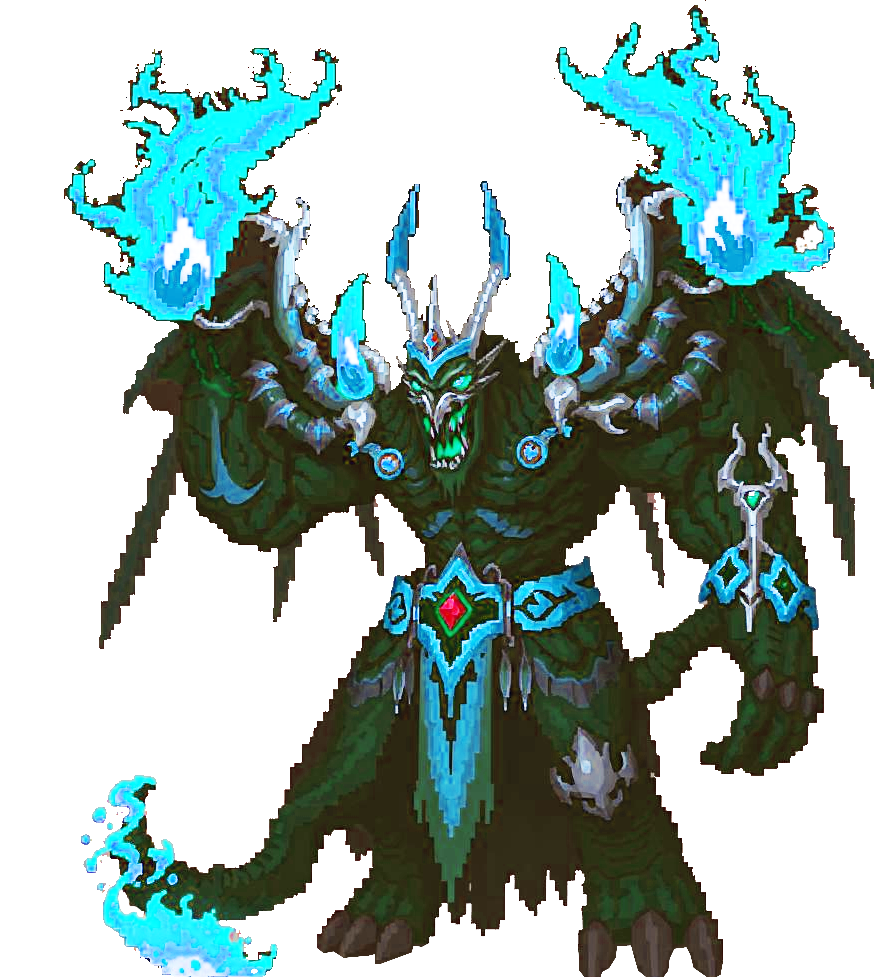
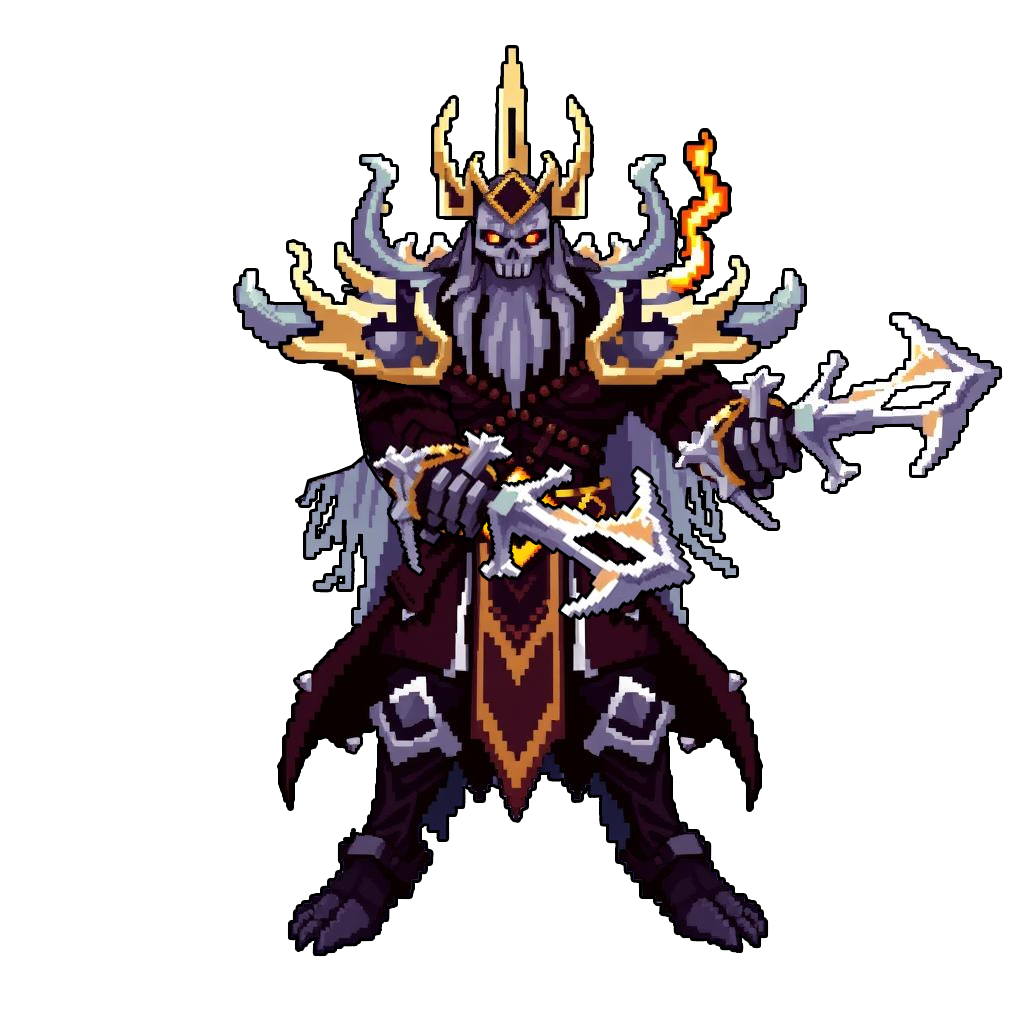
Update assets and enhance game functionality with custom cursor and health pickup rendering
Replaced boss and key images with updated versions for improved visuals. Removed the obsolete start_game.png image to streamline asset management. Enhanced the Game class by adding a custom mouse cursor feature, improving user experience. Updated the HealthPickup class to prioritize loading textures from the icons directory, with a fallback mechanism for better asset management. These changes aim to refine gameplay dynamics while maintaining code clarity and organization.

diff --git a/scripts/pickups.py b/scripts/pickups.py
@@ -85,11 +85,18 @@ class HealthPickup(BasePickup):
         
         # Try to load health pickup texture
         try:
-            health_path = os.path.join(WEAPON_SPRITES_PATH, "health_pickup.png")
+            # Look for the image in the icons directory first
+            health_path = os.path.join(ASSET_PATH, "icons", "health_pickup.png")
+            if not os.path.exists(health_path):
+                # Fall back to the weapons directory if not found
+                health_path = os.path.join(WEAPON_SPRITES_PATH, "health_pickup.png")
+            
             if os.path.exists(health_path):
                 self.health_texture = self.asset_manager.load_image(health_path, scale=(self.size, self.size))
+                print(f"Loaded health pickup texture from {health_path}")
             else:
                 self.health_texture = None
+                print(f"Could not find health pickup texture at {health_path}")
         except Exception as e:
             print(f"Failed to load health pickup texture: {e}")
             self.health_texture = None
@@ -103,36 +110,55 @@ class HealthPickup(BasePickup):
             pulse = math.sin(self.pulse_timer) * 0.2 + 0.8
             size = int(self.size * pulse)
             
-            # Create a surface for the heart shape
-            heart_surf = pygame.Surface((size, size), pygame.SRCALPHA)
-            
-            # Draw a red heart shape
-            heart_color = (255, 0, 0, 200)  # Semi-transparent red
-            
-            # Draw heart using 2 circles and a triangle
-            radius = size // 4
-            x_offset = size // 4
-            pygame.draw.circle(heart_surf, heart_color, (x_offset, radius), radius)  # Left circle
-            pygame.draw.circle(heart_surf, heart_color, (size - x_offset, radius), radius)  # Right circle
-            
-            # Triangle for bottom of heart
-            pygame.draw.polygon(heart_surf, heart_color, [
-                (0, radius),
-                (size // 2, size),
-                (size, radius)
-            ])
-            
-            # Add a glow effect
-            glow_surf = pygame.Surface((size * 3, size * 3), pygame.SRCALPHA)
-            glow_color = (255, 100, 100, 100)
-            pygame.draw.circle(glow_surf, glow_color, (size * 1.5, size * 1.5), size * pulse)
-            
-            # Blit heart and glow to main surface
-            heart_rect = heart_surf.get_rect(center=(self.x, self.y))
-            glow_rect = glow_surf.get_rect(center=(self.x, self.y))
-            
-            surface.blit(glow_surf, glow_rect)
-            surface.blit(heart_surf, heart_rect)
+            # If we have a texture, use it
+            if self.health_texture:
+                # Scale the texture with the pulse effect
+                scaled_texture = pygame.transform.scale(self.health_texture, (size, size))
+                
+                # Add a red glow effect behind the texture
+                glow_surf = pygame.Surface((size * 3, size * 3), pygame.SRCALPHA)
+                glow_color = (255, 100, 100, 100)  # Semi-transparent red
+                pygame.draw.circle(glow_surf, glow_color, (size * 1.5, size * 1.5), size * pulse)
+                
+                # Position the textures
+                texture_rect = scaled_texture.get_rect(center=(self.x, self.y))
+                glow_rect = glow_surf.get_rect(center=(self.x, self.y))
+                
+                # Blit the glow and texture to the surface
+                surface.blit(glow_surf, glow_rect)
+                surface.blit(scaled_texture, texture_rect)
+            else:
+                # Fallback to drawing a heart shape if texture is not available
+                # Create a surface for the heart shape
+                heart_surf = pygame.Surface((size, size), pygame.SRCALPHA)
+                
+                # Draw a red heart shape
+                heart_color = (255, 0, 0, 200)  # Semi-transparent red
+                
+                # Draw heart using 2 circles and a triangle
+                radius = size // 4
+                x_offset = size // 4
+                pygame.draw.circle(heart_surf, heart_color, (x_offset, radius), radius)  # Left circle
+                pygame.draw.circle(heart_surf, heart_color, (size - x_offset, radius), radius)  # Right circle
+                
+                # Triangle for bottom of heart
+                pygame.draw.polygon(heart_surf, heart_color, [
+                    (0, radius),
+                    (size // 2, size),
+                    (size, radius)
+                ])
+                
+                # Add a glow effect
+                glow_surf = pygame.Surface((size * 3, size * 3), pygame.SRCALPHA)
+                glow_color = (255, 100, 100, 100)
+                pygame.draw.circle(glow_surf, glow_color, (size * 1.5, size * 1.5), size * pulse)
+                
+                # Blit heart and glow to main surface
+                heart_rect = heart_surf.get_rect(center=(self.x, self.y))
+                glow_rect = glow_surf.get_rect(center=(self.x, self.y))
+                
+                surface.blit(glow_surf, glow_rect)
+                surface.blit(heart_surf, heart_rect)
         except Exception as e:
             print(f"Error rendering health pickup: {e}")
 

diff --git a/scripts/main.py b/scripts/main.py
@@ -23,16 +23,32 @@ class Game:
         pygame.init()
         pygame.display.set_caption("Mud Crawler")
         
+        # Game configuration
+        self.god_mode = False
+        self.infinite_arrows = False
+        self.infinite_special = False
+        self.infinite_stamina = False
+        
+        # Debug flags
+        self.debug_frame_times = False
+        self.debug_particles = False
+        
+        # Shake effect
+        self.shake_amount = 0
+        self.shake_duration = 0
+        self.shake_offset = [0, 0]
+        
+        # Initialize game variables
+        self.last_frame_time = pygame.time.get_ticks()
+        self.frame_times = []  # Store last N frame times
+        self.frame_time_sum = 0
+        self.frame_time_count = 0
+        
         # Torch lighting settings
         self.torch_enabled = True
         self.torch_radius = 300
         self.torch_inner_radius = 150
         self.darkness_level = 220  # Increased from 180 to 220 to make the field darker
-        
-        # Screen shake effect
-        self.shake_amount = 0
-        self.shake_duration = 0
-        self.shake_offset = [0, 0]
         
         # Death sequence flag
         self.death_sequence_active = False
@@ -96,6 +112,9 @@ class Game:
         # Initialize asset manager first
         self.asset_manager = get_asset_manager()
         print("Asset manager initialized")
+        
+        # Set custom mouse cursor
+        self.set_custom_cursor()
         
         # Check if assets directory exists, if not create it with necessary subdirectories
         self.ensure_asset_directories()
@@ -2159,6 +2178,38 @@ class Game:
         
         # Clear trail positions
         self.special_attack_trail_positions = []
+
+    def set_custom_cursor(self):
+        """Load and set a custom mouse cursor"""
+        try:
+            cursor_path = os.path.join(ASSET_PATH, 'icons', 'mouse_cursor.png')
+            cursor_image = pygame.image.load(cursor_path).convert_alpha()
+            
+            # Size check - resize if too large
+            width, height = cursor_image.get_size()
+            if width > 64 or height > 64:
+                # Pygame has a size limit for cursors
+                scale_factor = min(64 / width, 64 / height)
+                new_width = int(width * scale_factor)
+                new_height = int(height * scale_factor)
+                cursor_image = pygame.transform.smoothscale(cursor_image, (new_width, new_height))
+                print(f"Resized cursor from {width}x{height} to {new_width}x{new_height}")
+            
+            # Set the hotspot to the top-left corner of the image
+            # For a typical cursor, you might want to set it to the tip of the cursor
+            # For example, for an arrow pointing to the top-left, use (0, 0)
+            # For an arrow pointing to the top-right, use (width, 0)
+            hotspot = (0, 0)
+            
+            # Create a cursor from the image
+            cursor = pygame.cursors.Cursor(hotspot, cursor_image)
+            
+            # Set the cursor
+            pygame.mouse.set_cursor(cursor)
+            print(f"Custom cursor set from {cursor_path}")
+        except Exception as e:
+            print(f"Error setting custom cursor: {e}")
+            print(f"Using default cursor instead")
 
 if __name__ == "__main__":
     import argparse
